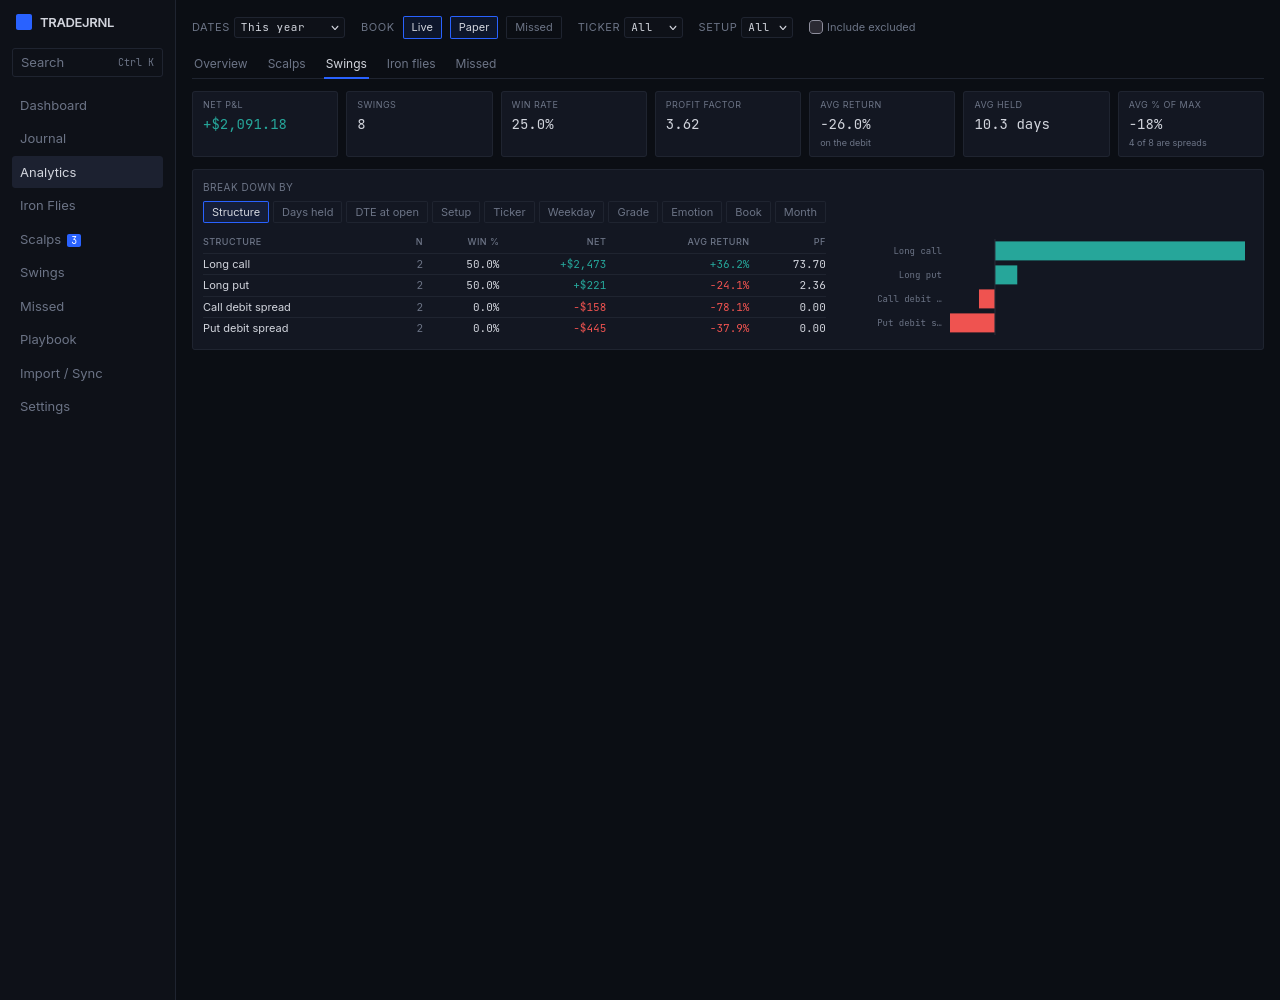
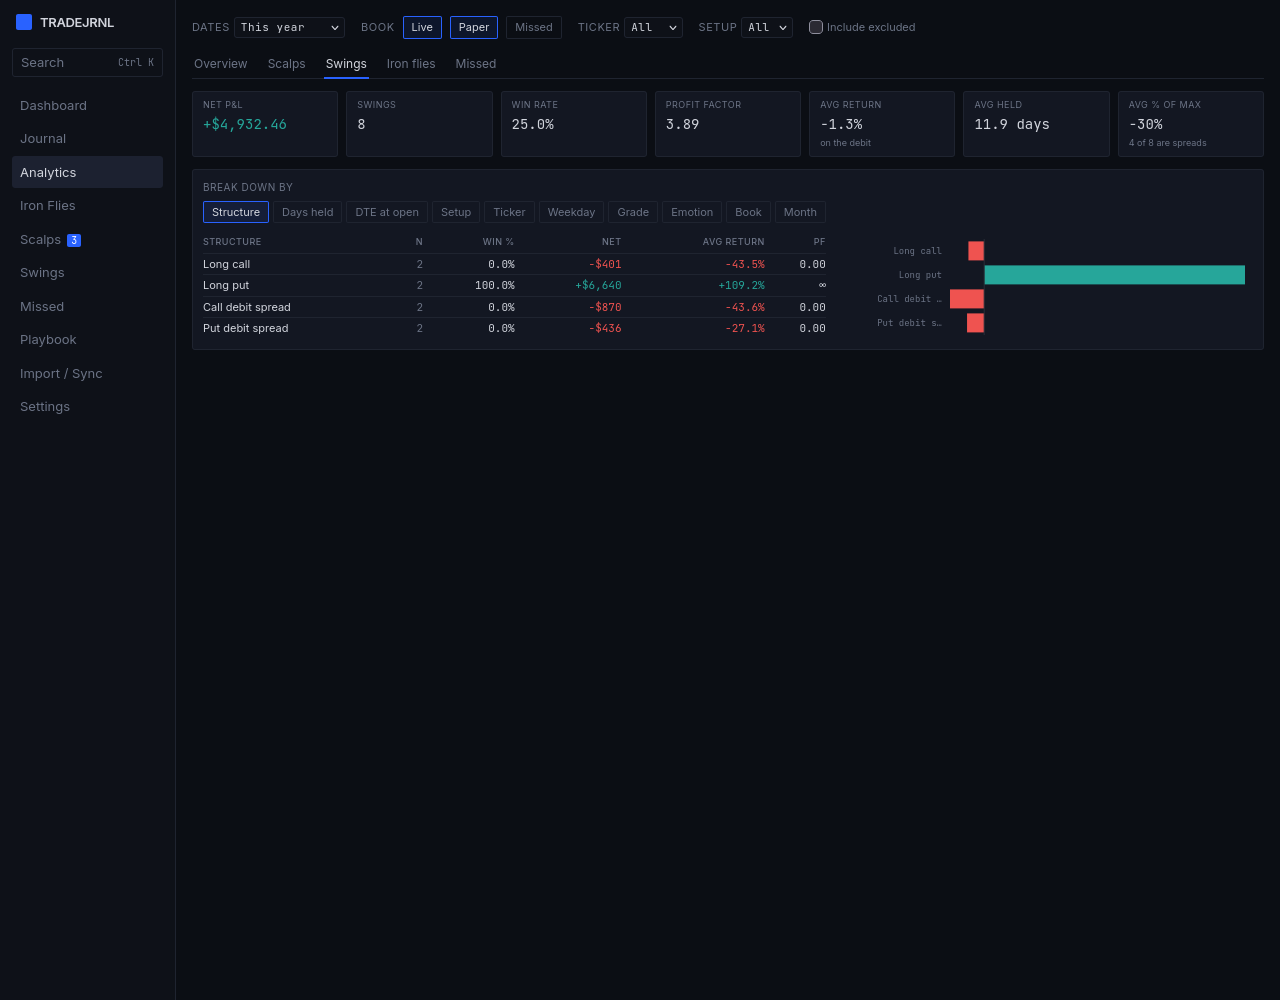
docs: the final review's fixes in the swing spec, and fresh swing screenshots

diff --git a/docs/superpowers/specs/2026-10-14-swing-trades-design.md b/docs/superpowers/specs/2026-10-14-swing-trades-design.md
@@ -386,6 +386,10 @@ One branch (`feat/swing-trades`) and one PR:
   - after switching the SPCX scalp to Swing, run 2: 35 unchanged, SPCX still a swing, its facts not marked edited.
 - **Keys on a swing page** (headless Firefox, opened from the Swings list): W switched the long put to Scalp and back to Swing; 2 set grade B; ? listed "Scalp or swing"; J moved to the next swing.
 
+**After the final review (14 Oct 2026):**
+- **Strike and break-even lines were off the chart** whenever they lay outside the candles' range: Lightweight Charts sizes the price scale from the candles alone. The candle series now has an `autoscaleInfoProvider` that widens the range to every line. Seen on the demo's NVDA 21.5 long put: its break-even at 20.45, below every candle, now shows with its label.
+- **That check found a demo bug:** each leg of a spread was priced at its own random volatility, so a short leg could cost more than its long one, and a demo spread closed for a debit ("B 1 @ 0.31"). Both legs now share one volatility a day. The demo's swings changed with it, so the README's swing screenshots were taken again; the QQQ spread above now closes at "S 2 @ 3.02".
+
 **Still to check with real data, on a machine with the keys:** a swing's chart on real Alpaca bars, and a real paper sync bringing in a debit vertical as a swing.
 
 **Noticed, not changed:** a closed swing's daily chart ends at its exit day, as a scalp's does (the bars are fetched up to the trade's last day), so the padding after the exit is blank. Seeing what the stock did after the exit would need the range to run past the close.
